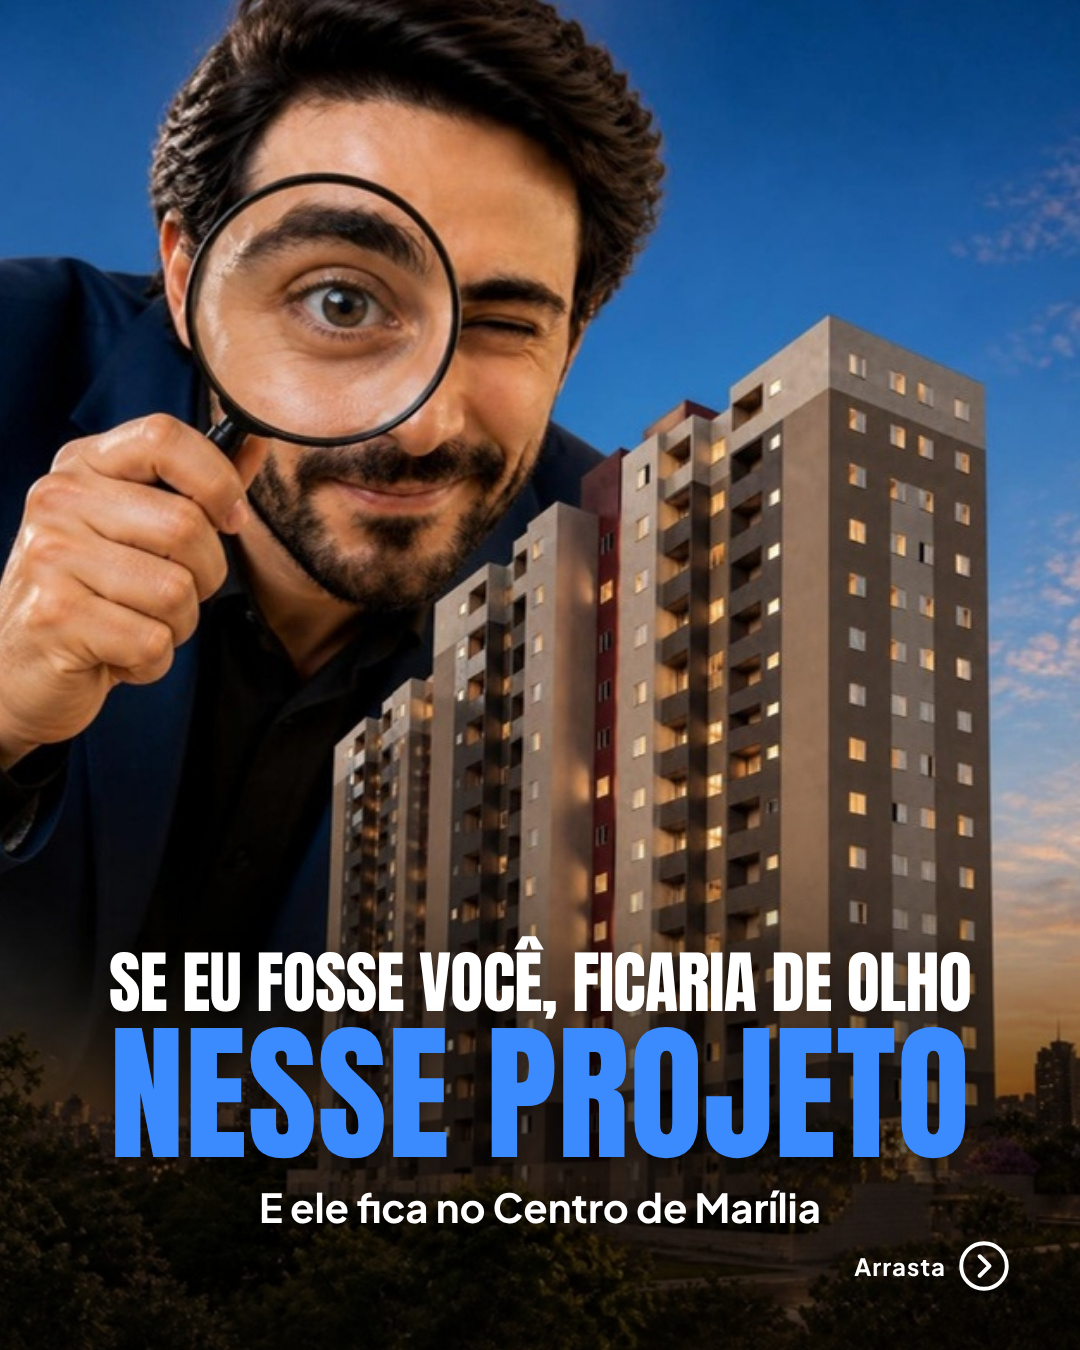
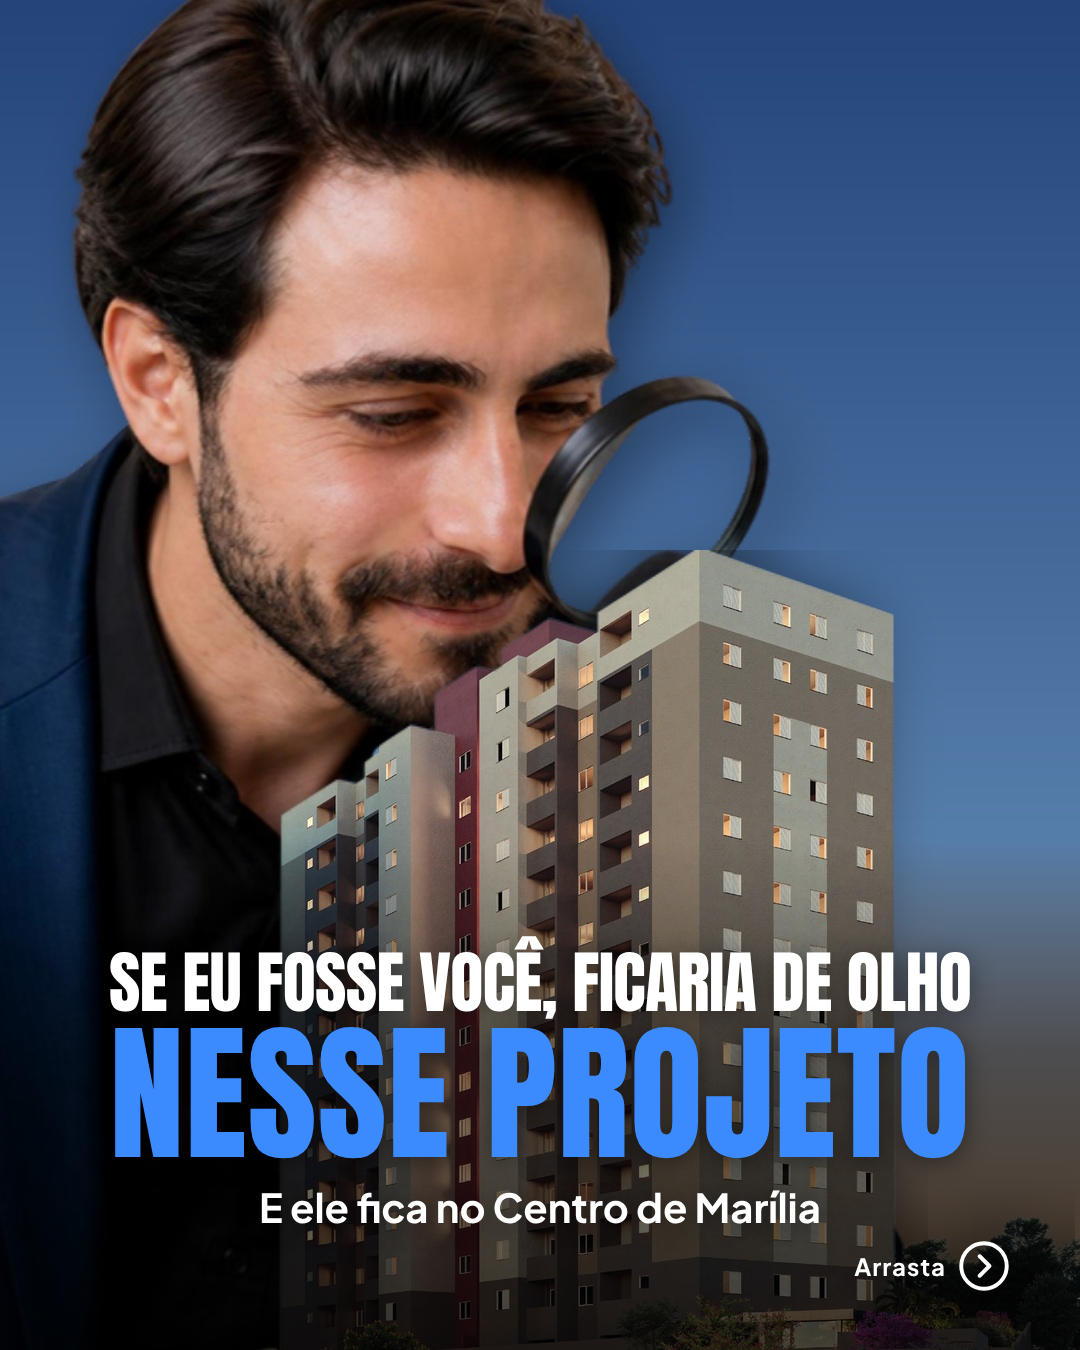
Carrossel OSK: capa com as torres originais do book (sem IA) e olhar do Matheus para o prédio; CTA com imagem original
Regra do dono: imagem de empreendimento só a original do book.

Claude-Session: https://claude.ai/code/session_018X91MFfPMRMPYSAfb3KdfT

diff --git a/docs/posicionamento/carrosseis/2026-10-12-osk/laminas.html b/docs/posicionamento/carrosseis/2026-10-12-osk/laminas.html
@@ -196,7 +196,7 @@
 </section>
 
 <section class="lamina cta">
-  <img class="fundo" src="img/fachada.png" alt="">
+  <img class="fundo" src="img/torres-book.jpg" alt="">
   <img class="pessoa" src="../../assets/boneco-3d/realista/celular.png" alt="">
   <span class="degrade"></span>
   <div class="txt">

diff --git a/docs/posicionamento/ESTILO-CARROSSEL.md b/docs/posicionamento/ESTILO-CARROSSEL.md
@@ -20,6 +20,9 @@ Quando o dono pedir "igual à original": editar a própria referência no Canva 
 ## Rodapé (@mhm.machado)
 Padrão: **sem rodapé** (dono, 2026-10-12). Ele avisa quando quiser; aí `"rodape": true` no roteiro.
 
+## Imagem de empreendimento (regra do dono, 2026-10-12)
+Fachada, torres, lazer e plantas de um empreendimento são o produto que será entregue: usar **somente a imagem original do book**, sem gerar nem editar com IA (nada de redesenhar torres). Texto sobre a foto no PDF → extrair a imagem limpa embutida (`pdfimages`). Montagem com pessoa: só recortar o fundo e compor; o olhar da pessoa vai para o prédio.
+
 ## Cor
 - **Destaque hoje = azul da marca** (`#3B8BFF` no fundo preto). Os posts antigos usavam **amarelo** — ao recriar um deles, trocar amarelo por azul. Nunca voltar ao amarelo.
 - **Vermelho só para palavra negativa** (regra do dono, 2026-10-12): ex. "reprovado", "recusou", "restrição" — `!!palavra!!` no roteiro. Destaque positivo/neutro continua azul.
